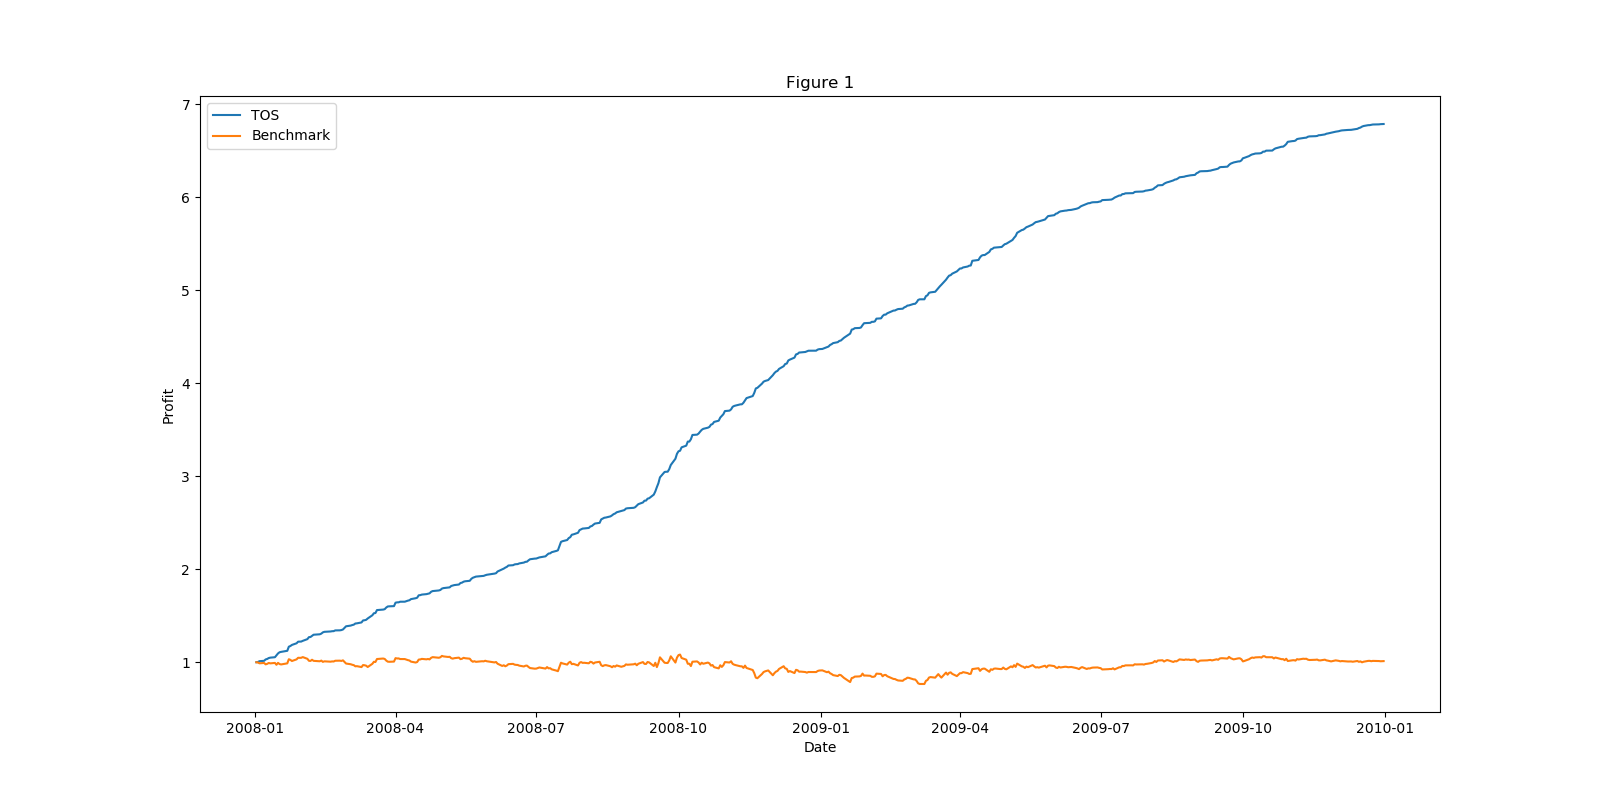
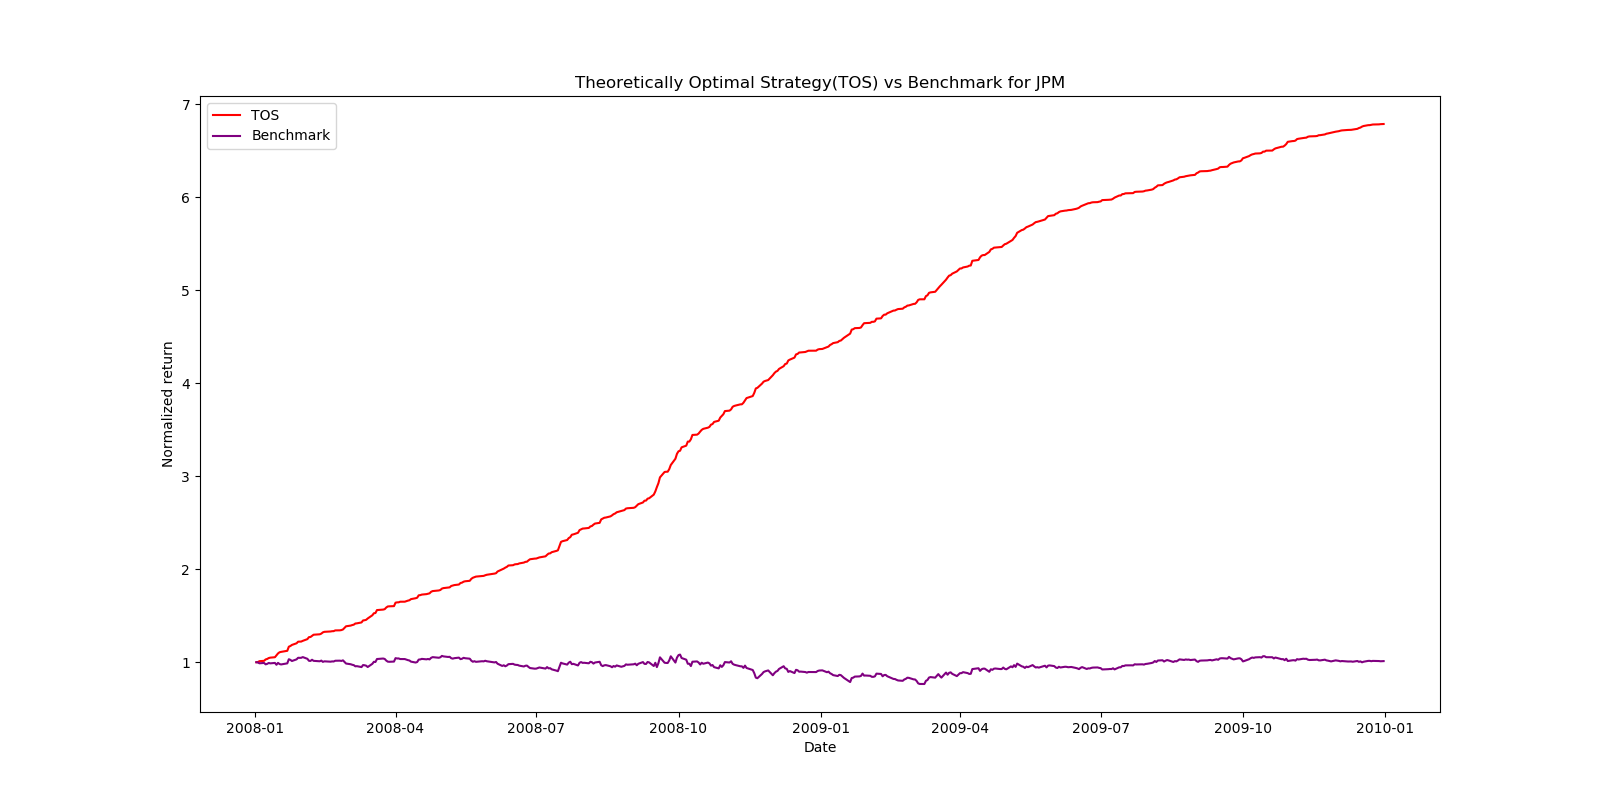
first submission ready

diff --git a/indicator/indicators.py b/indicator/indicators.py
@@ -1,9 +1,7 @@
 import datetime as dt
-
-import numpy as np
-
 import pandas as pd
-from util import get_data, plot_data
+from util import get_data
+import matplotlib.pyplot as plt
 
 def author():
     """
@@ -13,3 +11,133 @@ def author():
     return "cqu41"  # replace tb34 with your Georgia Tech username.
 
 
+
+def MACD(normed_price):
+    ema_12 = normed_price.ewm(span=12, min_periods=12, adjust=False).mean()
+    ema_26 = normed_price.ewm(span=26, min_periods=26, adjust=False).mean()
+
+    MACD_line=ema_12-ema_26
+    signal_line=MACD_line.ewm(span=9, min_periods=9, adjust=False).mean()
+
+    return MACD_line, signal_line
+
+
+
+# Average Directional Index
+def BB(lookback, normed_price):
+
+    rolling_mean=normed_price.rolling(window=lookback).mean()
+
+    rolling_std=normed_price.rolling(window=lookback).std()
+
+    upper_band=rolling_mean+rolling_std*2
+    lower_band=rolling_mean-rolling_std*2
+
+    bb=(normed_price-rolling_mean)/(rolling_std*2)
+    return upper_band, lower_band, bb
+
+def momentum(lookback, normed_price):
+
+    return normed_price / normed_price.shift(lookback) - 1
+
+def print_plot(symbol="JPM", sd=dt.datetime(2008, 1, 1), ed=dt.datetime(2009,12,31), lookback=20):
+
+    symbol=[symbol]
+
+    # Get stock data
+    price_df = get_data(symbol, pd.date_range(sd, ed))
+    price_df=price_df[["JPM"]]
+
+    normed_price_df=price_df/price_df.iloc[0]
+
+    # print(price_df)
+
+    sma=normed_price_df.rolling(window=lookback).mean()
+
+    #sma ratio from lecture
+    sma_ratio=normed_price_df/sma
+
+    plt.figure(figsize=(16, 8))
+    plt.title("Price and SMA of JPM (lookback = 20)")
+    plt.xlabel("Date")
+
+    plt.plot(sma, label="SMA")
+    plt.plot(normed_price_df, label="JPM")
+
+    plt.legend()
+    plt.savefig("figure3.png")
+    plt.clf()
+
+    plt.figure(figsize=(16, 8))
+    plt.title("Price/SMA ratio of JPM (lookback =20)")
+    plt.xlabel("Date")
+    plt.ylabel("Price/SMA ratio")
+    plt.plot(sma_ratio, label="Price/SMA Ratio")
+    plt.axhline(y=1.1, linestyle='--')
+    plt.axhline(y=0.9, linestyle='--')
+    plt.legend()
+    plt.savefig("figure4.png")
+    plt.clf()
+    momentum_df = momentum(lookback, normed_price_df)
+
+    plt.figure(figsize=(16, 8))
+    plt.title("Momentum line of JPM (20 days)")
+    plt.xlabel("Date")
+    plt.ylabel("Momentum")
+    plt.plot(momentum_df, label="Momentum")
+
+    plt.axhline(y=0.5, linestyle='--')
+    plt.axhline(y=-0.5, linestyle='--')
+    plt.legend()
+    plt.savefig("figure2.png")
+    plt.clf()
+
+    #BB
+    upper_band, lower_band, bb= BB(lookback, normed_price_df)
+    plt.figure(figsize=(16, 8))
+    plt.title("Bollinger Band")
+    plt.xlabel("Date")
+    plt.ylabel("BB")
+    plt.plot(normed_price_df, label="Price of JPM (normalized)")
+    plt.plot(upper_band, label="Upper band")
+    plt.plot(lower_band, label="lower band")
+    plt.legend()
+    plt.savefig("figure5.png")
+    plt.clf()
+
+    #BB quantative
+    plt.figure(figsize=(16, 8))
+    plt.title("Bollinger Band Percentage")
+    plt.xlabel("Date")
+    plt.ylabel("BB%")
+    plt.plot(bb, label="BB percentage")
+    plt.axhline(y=1.0, linestyle='--')
+    plt.axhline(y=-1.0, linestyle='--')
+    plt.legend()
+    plt.savefig("figure6.png")
+    plt.clf()
+
+    # MACD
+    plt.figure(figsize=(16, 8))
+    plt.title("MACD")
+    plt.xlabel("Date")
+    macd_line, signal_line=MACD(normed_price_df)
+    plt.plot(macd_line, label="MACD")
+    plt.plot(signal_line, label="Signal line")
+    plt.axhline(y=0.0, label="Zero line")
+    plt.legend()
+    plt.savefig("figure7.png")
+    plt.clf()
+
+    #EMA
+    ema_50=normed_price_df.ewm(span=50, min_periods=0, adjust=False).mean()
+    ema_200 = normed_price_df.ewm(span=200, min_periods=0, adjust=False).mean()
+    plt.figure(figsize=(16, 8))
+    plt.title("EMA")
+    plt.xlabel("Date")
+    plt.plot(ema_50, label="EMA 50")
+    plt.plot(ema_200, label="EMA 200")
+    plt.plot(normed_price_df, label="Price (normalized)")
+    plt.legend()
+    plt.savefig("figure8.png")
+    plt.clf()

diff --git a/indicator/TheoreticallyOptimalStrategy.py b/indicator/TheoreticallyOptimalStrategy.py
@@ -1,9 +1,6 @@
 import datetime as dt
-
-import numpy as np
-
 import pandas as pd
-from util import get_data, plot_data
+from util import get_data
 from marketismcode import compute_portvals
 import matplotlib.pyplot as plt
 
@@ -28,8 +25,6 @@ def testPolicy(symbol="JPM", sd=dt.datetime(2008, 1, 1), ed=dt.datetime(2009,12,
     df['prev_day'] = df['JPM'].shift(-1)
     df['is_bigger'] = df['JPM'] > df['prev_day']
     print(df)
-
-    plot_data(df)  # daily return indicator
 
     #build orders df
     orders_df  = pd.DataFrame(columns=['Symbol', 'Order', 'Shares'], index=df.index)
@@ -74,12 +69,12 @@ def testPolicy(symbol="JPM", sd=dt.datetime(2008, 1, 1), ed=dt.datetime(2009,12,
     normed_benchmark_vals=bench_vals/bench_vals[0]
 
     plt.figure(figsize=(16,8))
-    plt.title("Figure 1")
+    plt.title("Theoretically Optimal Strategy(TOS) vs Benchmark for JPM")
     plt.xlabel("Date")
-    plt.ylabel("Profit")
+    plt.ylabel("Normalized return")
 
-    plt.plot(normed_tos_vals.index, normed_tos_vals, label="TOS")
-    plt.plot(normed_benchmark_vals.index, normed_benchmark_vals, label="Benchmark")
+    plt.plot(normed_tos_vals.index, normed_tos_vals, label="TOS", color='red')
+    plt.plot(normed_benchmark_vals.index, normed_benchmark_vals, label="Benchmark", color='Purple')
     plt.legend()
     plt.savefig("figure1.png")
     plt.clf()
@@ -103,16 +98,6 @@ def benchmark_orders(symbol="JPM", sd=dt.datetime(2008, 1, 1), ed=dt.datetime(20
     #return orders dataframe
     return orders
 
-
-def compute_daily_returns(df):
-    """Compute and return the daily return values."""
-    # Quiz: Your code here
-    # Note: Returned DataFrame must have the same number of rows
-    daily_returns = df.copy()
-    daily_returns[1:] = (df[1:] / df[:-1].values) - 1 # compute daily returns for row 1 onwards
-    #daily_returns = (df / df.shift(1)) - 1  # much easier with Pandas!
-    daily_returns.iloc[0, :] = 0  # Pandas leaves the 0th row full of Nans
-    return daily_returns
 
 if __name__ == "__main__":
     # base_policy(symbol='JPM')

diff --git a/indicator/testproject.py b/indicator/testproject.py
@@ -1,9 +1,16 @@
-import datetime as dt
+import indicators as ind
 
-import numpy as np
+def author():
+    """
+    :return: The GT username of the student
+    :rtype: str
+    """
+    return "cqu41"  # replace tb34 with your Georgia Tech username.
+def test():
 
-import pandas as pd
-from util import get_data, plot_data
-import TheoreticallyOptimalStrategy as tos
+    ind.print_plot()
 
-df_trades = tos.testPolicy(symbol="JPM", sd=dt.datetime(2008, 1, 1), ed=dt.datetime(2009,12,31), sv=100000)
+
+if __name__ == "__main__":
+    test()
+
